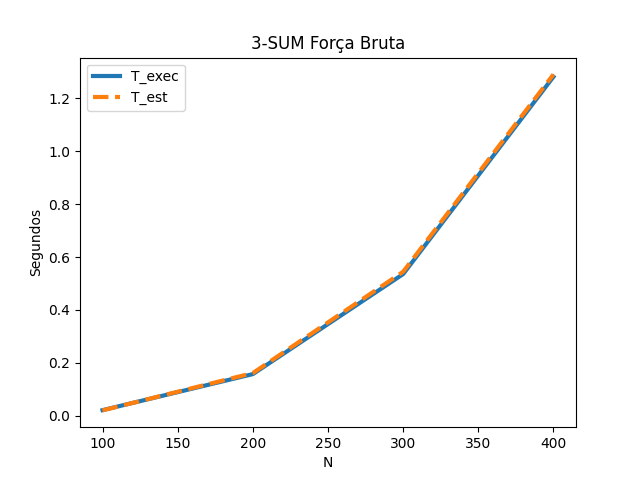
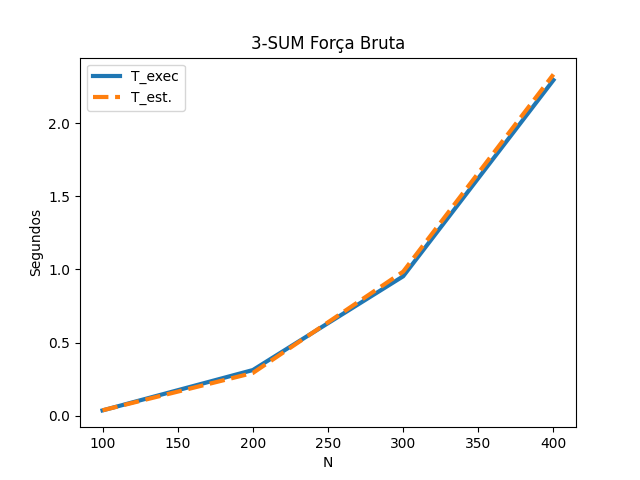
Quase terminado o exercício 1

diff --git a/Exercícios/2022_09_12_Exercício_1/src/sum3.py b/Exercícios/2022_09_12_Exercício_1/src/sum3.py
@@ -3,69 +3,108 @@ import time
 import traceback
 import matplotlib.pyplot as plt
 import bisect
+from math import log2
 
 
-def sum3_fbruta(vec):
+def calc_k_f_b(t_medio, n):
+    return t_medio/pow(n, 3)
+
+
+def calc_k_b_b(t_medio, n):
+    # nlog2n * n2 log2n
+    # return t_medio/(n*log2(n)*pow(n, 2)*log2(n))
+    p1 = pow(n, 2)
+    p2 = log2(n)
+    return t_medio/(pow(n, 2)*log2(n))
+
+
+def calc_k_o(t_medio, n):
+    return t_medio/pow(n, 2)
+
+
+def calc_t_est_f_b(k_medio, n):
+    return k_medio * pow(n, 3)
+
+
+def calc_t_est_b_b(k_medio, n):
+    # return k_medio * n*log2(n)*pow(n, 2)*log2(n)
+    return k_medio * pow(n, 2)*log2(n)
+
+
+def calc_t_est_o(k_medio, n):
+    return k_medio * pow(n, 2)
+
+
+def sum3_fbruta(vec_):
+    vec = vec_.copy()
+    vec.sort()
     start = time.time_ns()
     sum3 = []
     qtde_valores = len(vec)
     for i in range(qtde_valores):
-        for j in range(i, qtde_valores):
-            for k in range(j, qtde_valores):
+        for j in range(i+1, qtde_valores):
+            for k in range(j+1, qtde_valores):
                 if vec[i]+vec[j]+vec[k] == 0:
                     sum3.append([vec[i], vec[j], vec[k]])
+                    break
 
     end = time.time_ns()
     return sum3, end - start
 
 
-def sum3_bisect(vec):
+def sum3_bisect(vec_):
+    vec = vec_.copy()
+    vec.sort()
     start = time.time_ns()
     sum3 = []
     qtde_valores = len(vec)
     for i in range(qtde_valores):
-        for j in range(i, qtde_valores):
+        for j in range(i+1, qtde_valores):
             l = (vec[i] + vec[j]) * -1
-            k = bisect.bisect_left(vec, l)
-            if k != qtde_valores and vec[k] == l:
+            k = bisect.bisect_left(vec[j+1:qtde_valores], l)
+            if (k + j + 1) != qtde_valores and vec[(k + j + 1)] == l:
                 sum3.append([vec[i], vec[j], vec[k]])
 
     end = time.time_ns()
     return sum3, end - start
 
 
-def sum3_optimized(vec):
+def sum3_optimized(vec_):
+    vec = vec_.copy()
+    vec.sort()
     start = time.time_ns()
     sum3 = []
     qtde_valores = len(vec)
     for i in range(qtde_valores):
         j = i+1
-        k =  qtde_valores - 1
-        while(j<k):
-            if vec[i] + vec[j] + vec[k]  > 0:
-                k-=1
-            elif vec[i] + vec[j] + vec[k]  < 0:
-                j+=1
-            elif vec[i] + vec[j] + vec[k]  == 0:
+        k = qtde_valores - 1
+        while(j < k):
+            s = vec[i] + vec[j] + vec[k]
+            if s > 0:
+                k -= 1
+            elif s < 0:
+                j += 1
+            elif s == 0:
                 sum3.append([vec[i], vec[j], vec[k]])
+                j += 1
     end = time.time_ns()
     return sum3, end - start
 
 
 def salva_grafico(titulo, label_x, label_y, vetor_x, vetores_y, nome_arquivo):
     # gráfico para os tempo de execução do algoritmo com os tempos estimados
+    plt.clf()
     plt.title("%s" % titulo)
     plt.xlabel("%s" % label_x)
     plt.ylabel("%s" % label_y)
     plt.grid(False)
     for i in vetores_y:
-        plt.plot(vetor_x, vetores_y[0],
-                 label=vetores_y[1], lw=3, ls=vetores_y[2])
+        plt.plot(vetor_x, i[0], label=i[1], lw=3, ls=i[2])
     plt.legend()
-    plt.savefig("./graficos/%s.png", nome_arquivo)
+    plt.savefig("./graficos/%s.png" % nome_arquivo)
 
 
-def exec_experimento(funcao, nome_exp, nome_arquivo, vetor_tamanhos, vetores_dados, qtde_exec, qtde_exp):
+def exec_experimento(funcao, eq_k, eq_t, nome_exp, nome_arquivo, vetor_tamanhos, vetores_dados, qtde_exec, qtde_exp):
     relatorio = "Algoritmo %s\n" % nome_exp
     vet_ret = []
     k_medio = 0
@@ -83,7 +122,7 @@ def exec_experimento(funcao, nome_exp, nome_arquivo, vetor_tamanhos, vetores_dad
         # tempo médio em segundos
         t_medio /= 1000000000
         n = vetor_tamanhos[i]
-        k = t_medio/pow(n, 3)
+        k = eq_k(t_medio, n)
         k_medio += k
         vet_t_medio.append(t_medio)
         relatorio += "| %d | %.3f | %.3e |\n" % (n, t_medio, k)
@@ -95,14 +134,13 @@ def exec_experimento(funcao, nome_exp, nome_arquivo, vetor_tamanhos, vetores_dad
     relatorio += "| N | K(medio) | T(s) | T(s)(estimado) | Erro(%) |\n"
     for i in range(qtde_exp):
         n = vetor_tamanhos[i]
-        t_est = k_medio * pow(n, 3)
+        t_est = eq_t(k_medio, n)
         vet_t_est.append(t_est)
         erro = (t_est - vet_t_medio[i])/vet_t_medio[i] * 100
         relatorio += "| %d | %.3e | %.3f | %.3f | %.3f |\n" % (
             n, k_medio, vet_t_medio[i], t_est, erro)
     relatorio += "\n"
 
-    relatorio += "Estimativa para N = 5000: %.3f\n" % (k_medio * pow(5000, 3))
     with open('./relatorio/%s.txt' % nome_arquivo, 'w') as f:
         f.write(relatorio)
         f.close()
@@ -110,14 +148,16 @@ def exec_experimento(funcao, nome_exp, nome_arquivo, vetor_tamanhos, vetores_dad
     vet_grafico = [[vet_t_medio, "T_exec", "-"], [vet_t_est, "T_est.", "--"]]
     salva_grafico(nome_exp, "N", "Segundos",
                   vetor_tamanhos, vet_grafico, nome_arquivo)
+    print(relatorio)
+    return vet_t_medio, vet_t_est, k_medio, vet_ret
 
 
 def main():
     # criação dos vetores de 100, 500, 1000, 2000 e 50000
     # 10 vetores para cada
-    qtde_exec = 10
+    qtde_exec = 1
     random.seed(0)
-    vetor_tamanhos = [100, 200]
+    vetor_tamanhos = [100, 500, 1000, 2000, 5000]
     qtde_exp = len(vetor_tamanhos)
     vetores_dados = []
     for i in range(qtde_exp):
@@ -125,9 +165,26 @@ def main():
         for k in range(qtde_exec):
             vetores_dados[i].append([random.randint(-1000, 1000)
                                     for j in range(vetor_tamanhos[i])])
+
     # Algoritmo 3-sum força bruta O(n³)
-    exec_experimento(sum3_fbruta, "3-SUM Força Bruta", "sum_3_f_b", vetor_tamanhos,
-                     vetores_dados, qtde_exec, qtde_exp)
+    # bf_t_medio, bf_t_est, bf_k, bf_vet_ret = exec_experimento(
+    #    sum3_fbruta, calc_k_f_b, calc_t_est_f_b,
+    #    "3-SUM Força Bruta", "sum_3_f_b",
+    #    vetor_tamanhos, vetores_dados, qtde_exec, qtde_exp)
+
+    # Algoritmo 3-sum com busca binária O(n² log2 n)
+    bb_t_medio, bb_t_est, bb_k, bb_vet_ret = exec_experimento(
+        sum3_bisect, calc_k_b_b, calc_t_est_b_b,
+        "3-SUM Busca Binária", "sum_3_b_b",
+        vetor_tamanhos, vetores_dados, qtde_exec, qtde_exp)
+
+    # Algoritmo 3-sum otimizado O(n²)
+    o_t_medio, o_t_est, o_k, o_vet_ret = exec_experimento(
+        sum3_optimized, calc_k_o, calc_t_est_o,
+        "3-SUM Otimizado", "sum_3_o",
+        vetor_tamanhos, vetores_dados, qtde_exec, qtde_exp)
+    # relatorio += "Estimativa para N = 5000: %.3f\n" % (eq_t(k_medio, n))
+    a = 1
 
 
 if __name__ == '__main__':
